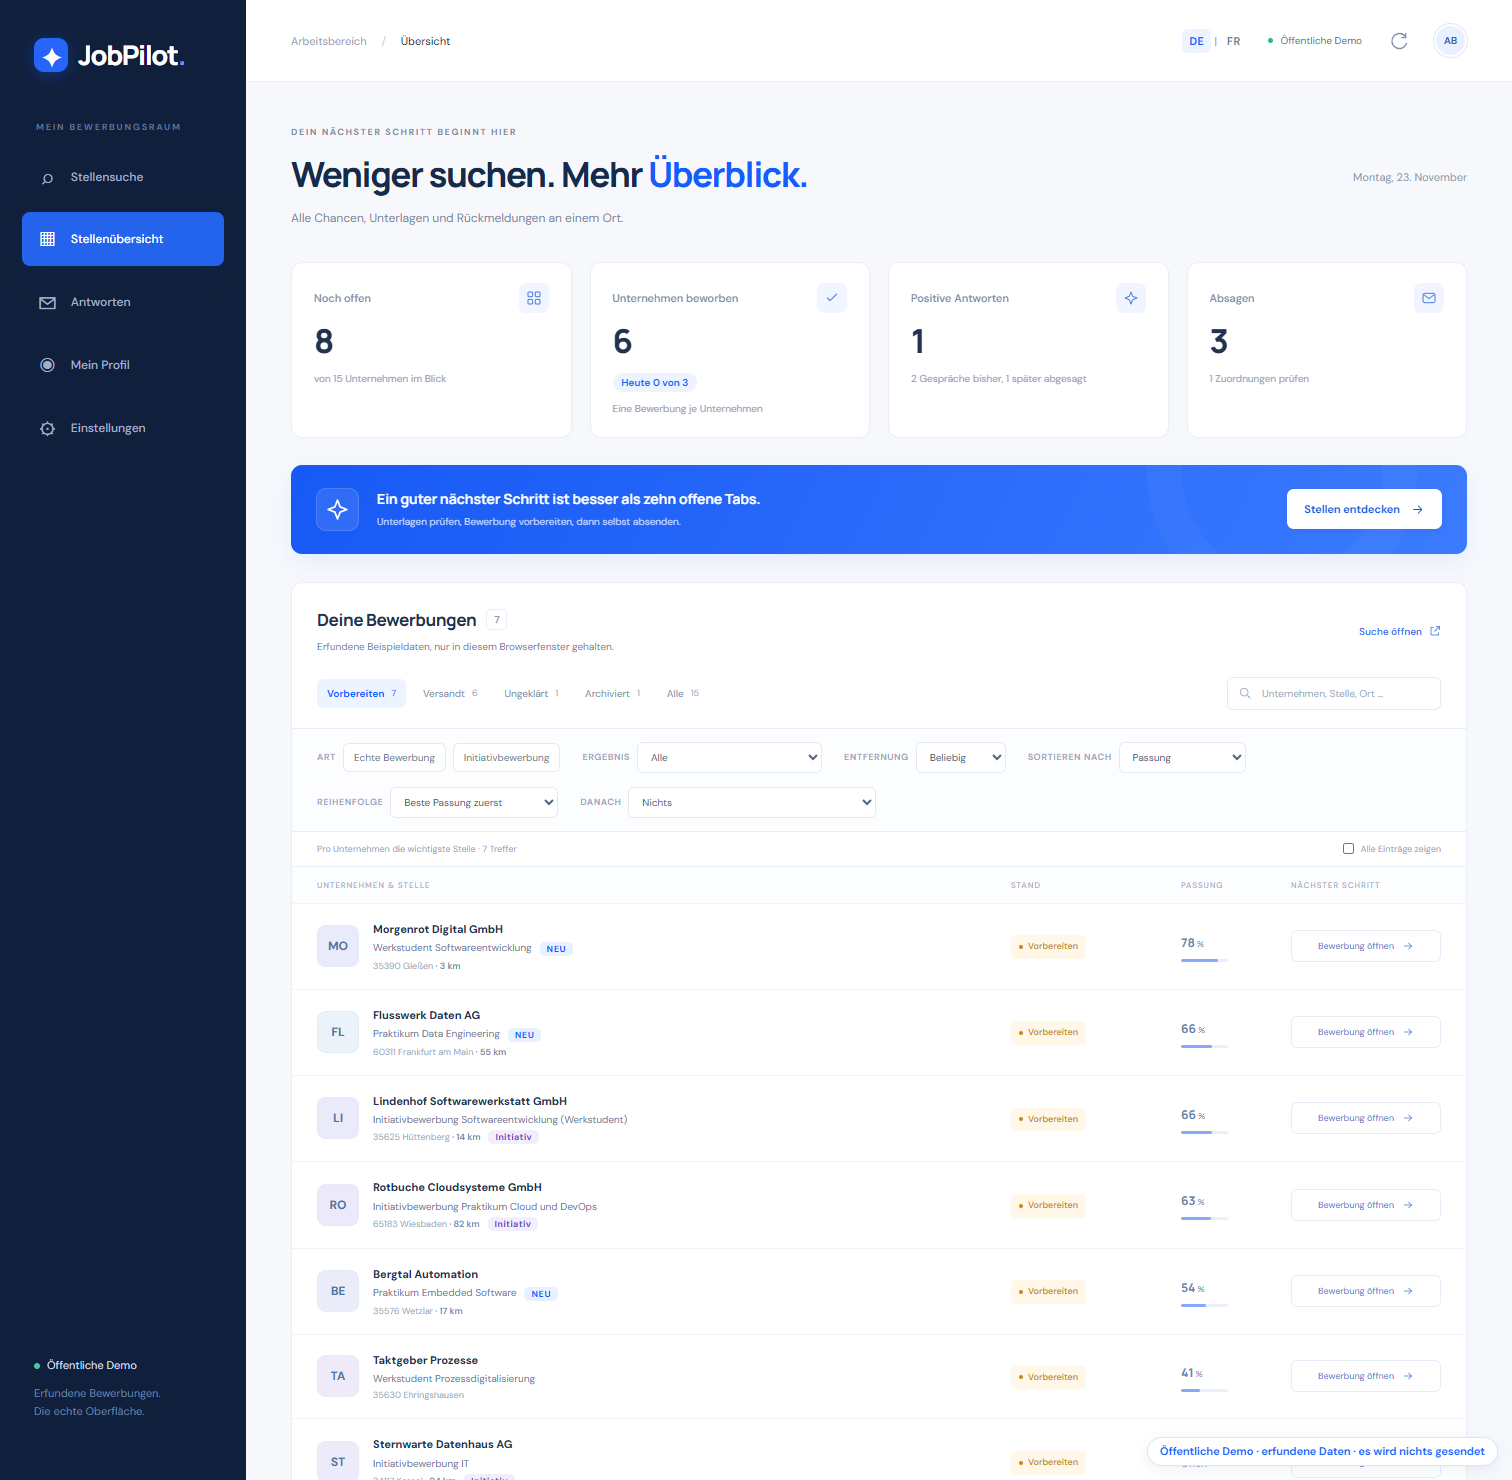
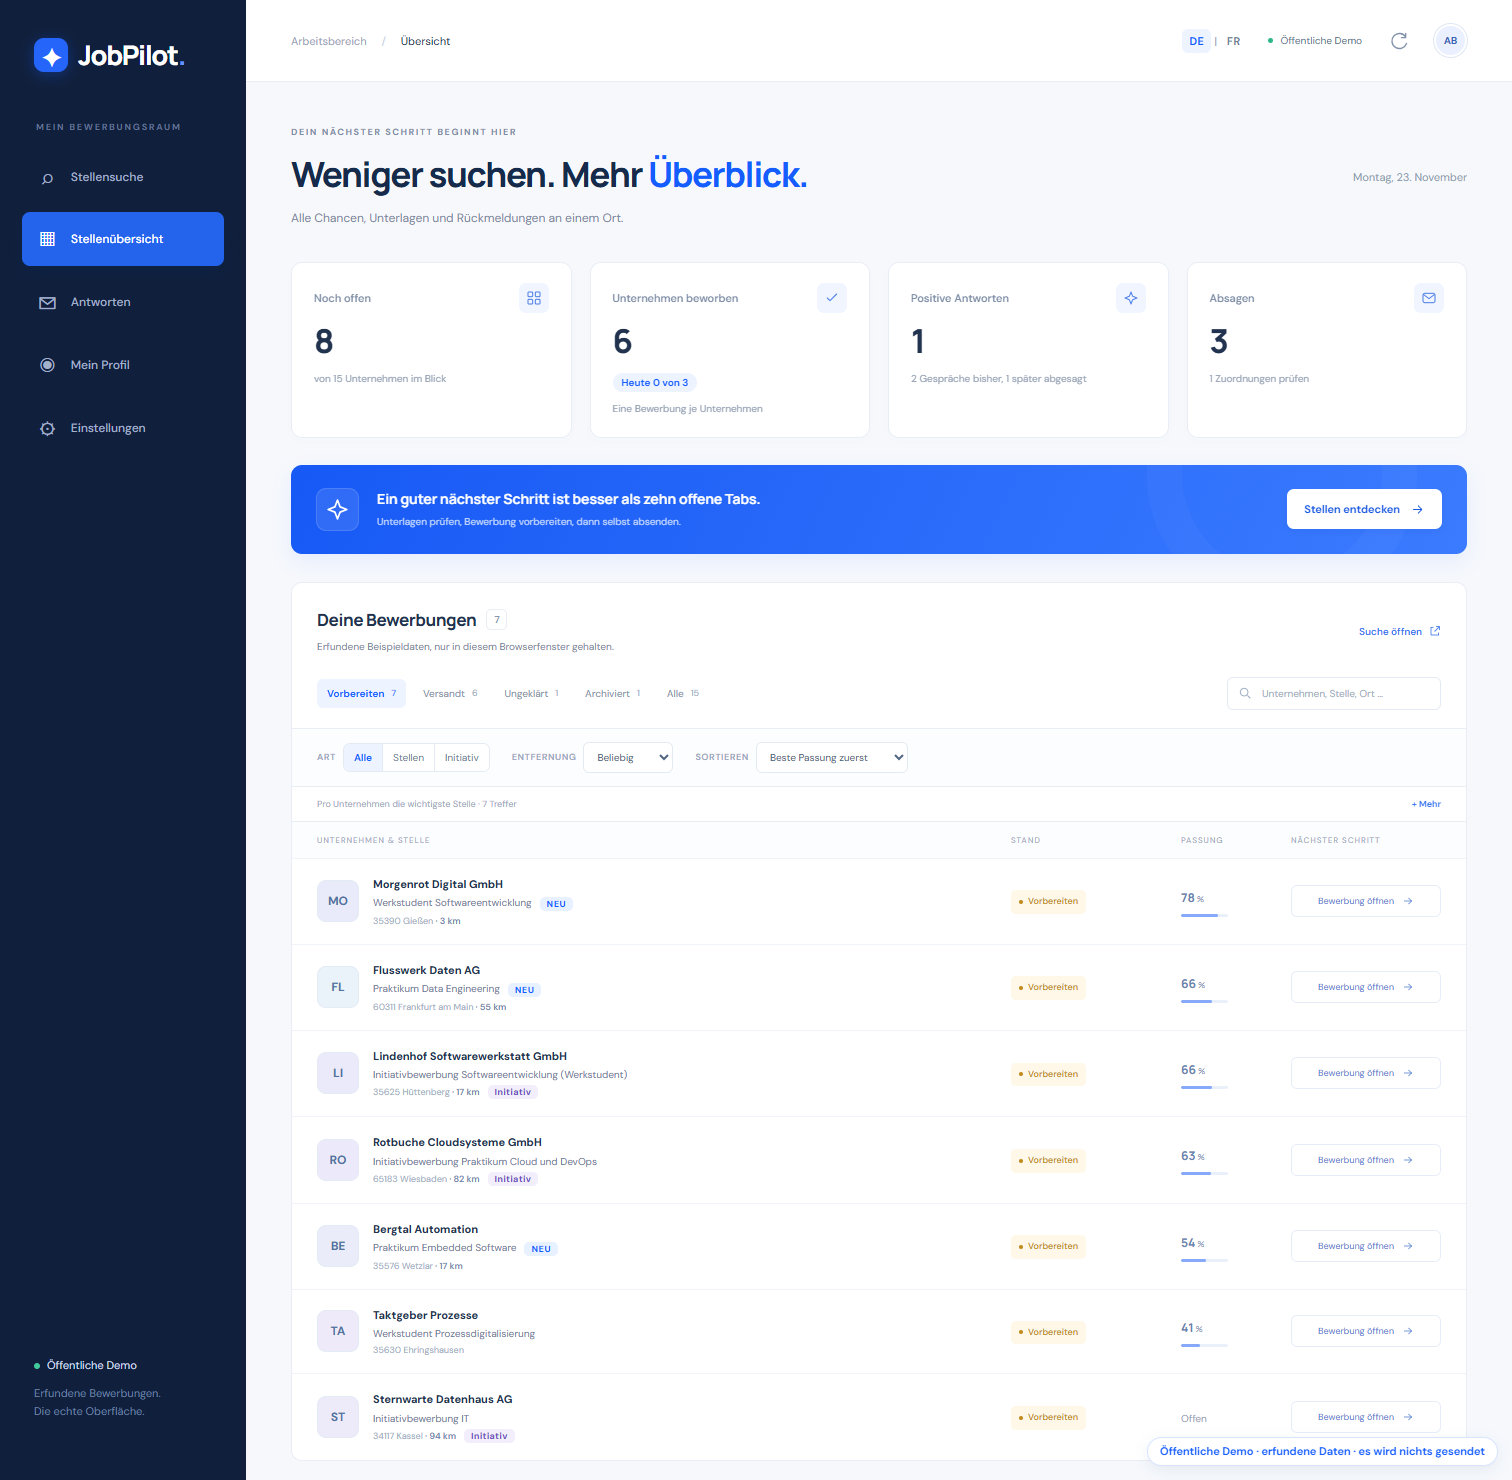
Dokumentation und Screenshot zur vereinfachten Filterzeile

diff --git a/README.md b/README.md
@@ -14,7 +14,7 @@ Konkrete Fälle statt Erklärtexte, alles mit Beispieldaten:
 
 - **Stellenübersicht:** offene Stellen mit Passung, neue Anzeigen mit Marker, Tagesziel und eine Fiche je Firma. Die zweite Anzeige einer Firma, an die schon eine Bewerbung ging, bleibt archiviert und ist gesperrt.
 - **Kennzahlen:** „Noch offen“ (von N Unternehmen im Blick), „Unternehmen beworben“ mit Tagesziel, „Positive Antworten“ (Einladungen und Zusagen) und „Absagen“. Je Unternehmen zählt die zuletzt eingegangene entscheidende Antwort; Eingangsbestätigungen, Rückfragen nach Unterlagen und Portalhinweise („Nur über Portal“) zählen nicht. Die Kachel „Positive Antworten“ nennt auch bisherige Gespräche und spätere Absagen.
-- **Filterzeile:** Schalter „Echte Bewerbung“ und „Initiativbewerbung“ (kombinierbar), „Ergebnis“ für versandte Bewerbungen (Alle, Wartet auf Antwort, Absage, Positiv), Höchstentfernung von Gießen, Sortierung nach Passung, Entfernung oder Bewerbungsdatum (auf- und absteigend, ohne Datum am Ende), ein zweites Kriterium für gleiche Werte und „Zurücksetzen“ (setzt auch das Ergebnis zurück). Das Ergebnis je Unternehmen ist die zuletzt eingegangene entscheidende Antwort; jede Fiche zeigt genau eine kleine Marke. Versandte Fichen nennen „am TT.MM.JJJJ“ oder „Datum unbekannt“. Die Entfernung steht in Kilometern in der Ortszeile, Initiativbewerbungen tragen eine Marke. Orte, Entfernungen und Firmen sind erfunden.
+- **Filterzeile:** Zeile 2 hat nur wenige Elemente: „Art“ als dreiteilige Auswahl (Alle, Stellen, Initiativ), „Ergebnis“ (Alle, Wartet, Absage, Positiv; nur im Reiter Versandt oder Alle sichtbar), „Entfernung“ (Beliebig, 25, 50, 100, 150 km von Gießen) und ein Feld „Sortieren“ (Beste Passung zuerst als Standard, Nächste zuerst, Weiteste zuerst, Zuletzt beworben zuerst, Zuerst beworben zuerst; ohne Entfernung oder Datum am Ende, bei Gleichstand entscheidet die Passung). „Zurücksetzen“ erscheint nur bei aktiven Filtern und setzt auch das Ergebnis zurück. Die Schalter für alle Einträge und archivierte Zweitstellen stehen eingeklappt unter „Mehr“. Das Ergebnis je Unternehmen ist die zuletzt eingegangene entscheidende Antwort; jede Fiche zeigt genau eine kleine Marke. Versandte Fichen nennen „am TT.MM.JJJJ“ oder „Datum unbekannt“. Die Entfernung steht in Kilometern in der Ortszeile, Initiativbewerbungen tragen eine Marke. Orte, Entfernungen und Firmen sind erfunden.
 - **Nur Informatik:** Stellen, deren Titel keinen IT-Bezug hat (im Beispiel eine Buchhaltungsstelle), erscheinen nirgends. Ausnahmen sind Initiativbewerbungen, Redaktions- und Content-Stellen für Websites sowie archivierte, versandte, gewählte und fertig vorbereitete Fichen. Die Regel stammt aus dem geteilten Kern (`src/kern/company-catalogue.ts`).
 - **Fiche im Detail:** Gründe für die Passung, Hinweise, vorhandene Unterlagen und der Hinweis, wenn nur ein allgemeiner Lebenslauf vorliegt. Die zwei erfundenen Beispieldokumente öffnen sich zum Ansehen im Browser, ohne Download. „Mit Assistent öffnen (neuer Tab)“ und „Eigenes Assistentfenster“ sind sichtbar, aber gesperrt: Die Demo besitzt keinen Browserassistenten und füllt nichts aus.
 - **Zweisprachig:** Deutsch ist der Standard; der Umschalter DE | FR oder `?lang=fr` wechselt die Oberfläche auf Französisch. Mailtexte und Stellentitel der erfundenen Beispiele bleiben deutsch, wie sie ein deutscher Arbeitgeber schickt.
@@ -81,7 +81,7 @@ npm run build
 node werkzeuge/browser-pruefen.cjs
 ```
 
-Der Browserlauf öffnet die gebaute Demo unter einem Veröffentlichungspfad, prüft Stellenübersicht, Filterzeile (Initiativ, Entfernung auf- und absteigend, zweites Kriterium, Zurücksetzen), die Regel „Nur Informatik“, Fiche mit gesperrtem Assistenten und Dokumenten zum Ansehen, Archiv und Zweitstellen, Antworten, nicht enthaltene Seiten, Französisch (Umschalter und `?lang=fr`), das Übungsformular, die Handyansicht sowie das Ausbleiben von Laufzeitfehlern und externen Anfragen. Mit `--url=<Adresse>` läuft dieselbe Prüfung gegen die veröffentlichte Demo. Der Datenschutzprüfer erkennt typische Privatdateien und Zugangsdatenmuster; er ergänzt die manuelle Positivliste und ist keine allgemeine Garantie gegen alle Geheimnisse. Als PDF sind nur die zwei erfundenen Beispielunterlagen erlaubt.
+Der Browserlauf öffnet die gebaute Demo unter einem Veröffentlichungspfad, prüft Stellenübersicht, Filterzeile (Art, Ergebnis nur bei Versandt oder Alle, Entfernung, ein Sortierfeld mit Gleichstand nach Passung, „Mehr“, Zurücksetzen), die Regel „Nur Informatik“, Fiche mit gesperrtem Assistenten und Dokumenten zum Ansehen, Archiv und Zweitstellen, Antworten, nicht enthaltene Seiten, Französisch (Umschalter und `?lang=fr`), das Übungsformular, die Handyansicht sowie das Ausbleiben von Laufzeitfehlern und externen Anfragen. Mit `--url=<Adresse>` läuft dieselbe Prüfung gegen die veröffentlichte Demo. Der Datenschutzprüfer erkennt typische Privatdateien und Zugangsdatenmuster; er ergänzt die manuelle Positivliste und ist keine allgemeine Garantie gegen alle Geheimnisse. Als PDF sind nur die zwei erfundenen Beispielunterlagen erlaubt.
 
 ## Aufbau und Herkunft
 

diff --git a/docs/ABNAHME.md b/docs/ABNAHME.md
@@ -12,7 +12,7 @@
 | Keine persönlichen Daten veröffentlichen | Positivliste, synthetische Daten, privater Laufzeitordner | Quellenprüfung, Herkunftsprotokoll und Musterscanner |
 | Gute öffentliche Bedienung | Vier responsive Ansichten, Filter und Export | Browserprüfung am Desktop und bei 390 Pixeln |
 | Kennzahlen | Noch offen, beworben, positive Antworten, Absagen; je Unternehmen zählt die letzte entscheidende Antwort, Portalhinweise und Eingangsbestätigungen nicht | Browserlauf: Werte und Unterzeilen vor und nach dem Markieren einer Fiche, Antwortarten, beide Sprachen |
-| Stellen filtern und ordnen | Filterzeile: Art (echt / Initiativ), Ergebnis (wartet, Absage, Positiv), Höchstentfernung, Sortierung nach Passung, Entfernung oder Bewerbungsdatum, zweites Kriterium, Zurücksetzen | Browserlauf: Initiativfilter ergibt nur Initiativstellen, Entfernung und Datum auf- und absteigend (ohne Datum am Ende), Ergebnisfilter einzeln und mit Datumssortierung, Reihenfolge bei gleicher Passung, Zurücksetzen auch des Ergebnisses |
+| Stellen filtern und ordnen | Filterzeile: Art (Alle / Stellen / Initiativ), Ergebnis (Wartet, Absage, Positiv; nur im Reiter Versandt oder Alle), Entfernung (25 bis 150 km), ein Sortierfeld (Passung, nächste, weiteste, zuletzt oder zuerst beworben) mit Passung als Gleichstand, „Mehr“ für alle Einträge und Zweitstellen, Zurücksetzen nur bei aktiven Filtern | Browserlauf: Art-Auswahl, Entfernung, Sortierung nach Entfernung und Datum (ohne Wert am Ende), Gleichstand nach Passung, Ergebnis nur bei Versandt/Alle und kombiniert mit Datum, „Mehr“ eingeklappt, Zurücksetzen, Französisch, Handyansicht |
 | Ergebnis je Fiche | Genau eine kleine Marke (Absage / Positiv, sonst letzte Antwort), Bewerbungsdatum oder „Datum unbekannt“, Kachel „Positive Antworten“ mit bisherigen Gesprächen und späteren Absagen | Browserlauf mit Absage nach früherer Einladung, Portalhinweis und Eingangsbestätigung; Französisch und Handyansicht |
 | Nur Informatik | `eligibleRole` im geteilten Kern; Ausnahmen für Initiativbewerbungen und Redaktion/Content für Websites | Kernprüfung mit Beispieltiteln; Browserlauf: Stelle ohne IT-Bezug erscheint nirgends |
 | Unterlagen ansehen | Beispieldokumente öffnen sich als PDF im Browser, ohne `download`-Attribut und ohne `attachment` | Browserlauf prüft Link, Ziel und Content-Type |

diff --git a/docs/ARCHITEKTUR.md b/docs/ARCHITEKTUR.md
@@ -36,7 +36,7 @@ Der lokale Server verarbeitet begrenzte Pakete und setzt Seitencursor und Planin
 
 ## Regel „Nur Informatik“, Filter und Entfernung
 
-`eligibleRole` (`src/kern/company-catalogue.ts`, übernommen) verlangt einen IT-Begriff im Titel. Ausgenommen sind ausdrückliche Initiativbewerbungen sowie Redaktions- und Content-Stellen, die oft die Pflege von Websites meinen. Archivierte, versandte, vom Nutzer gewählte und fertig vorbereitete Fichen bleiben sichtbar; die Oberfläche wendet dieselbe Regel auch bei „Alle Einträge zeigen“ an. Die Filterzeile arbeitet rein im Browser auf den geladenen Fichen: Art (Initiativbewerbung erkennt `opportunityType: initiative` oder den Titel), Höchstentfernung, Sortierung und ein zweites Kriterium. Die Entfernung ist ein Zahlenfeld `distanceKm` (Luftlinie von Gießen); Fichen ohne Wert stehen am Ende und werden benannt. In der Demo sind Orte und Werte erfunden.
+`eligibleRole` (`src/kern/company-catalogue.ts`, übernommen) verlangt einen IT-Begriff im Titel. Ausgenommen sind ausdrückliche Initiativbewerbungen sowie Redaktions- und Content-Stellen, die oft die Pflege von Websites meinen. Archivierte, versandte, vom Nutzer gewählte und fertig vorbereitete Fichen bleiben sichtbar; die Oberfläche wendet dieselbe Regel auch bei „Alle Einträge zeigen“ an. Die Filterzeile arbeitet rein im Browser auf den geladenen Fichen: Art (Alle, Stellen, Initiativ; Initiativ erkennt `opportunityType: initiative` oder den Titel), Ergebnis (nur sichtbar, wenn der Reiter Versandt oder Alle aktiv ist), Höchstentfernung und ein einziges Sortierfeld. Gleichstand entscheidet die Passung; „Reihenfolge“ und „Danach“ gibt es nicht. Die Schalter für alle Einträge und Zweitstellen liegen in einem eingeklappten „Mehr“. Die Entfernung ist ein Zahlenfeld `distanceKm` (Luftlinie von Gießen); Fichen ohne Wert stehen am Ende und werden benannt. In der Demo sind Orte und Werte erfunden.
 
 ## Kennzahlen und Antworten
 
